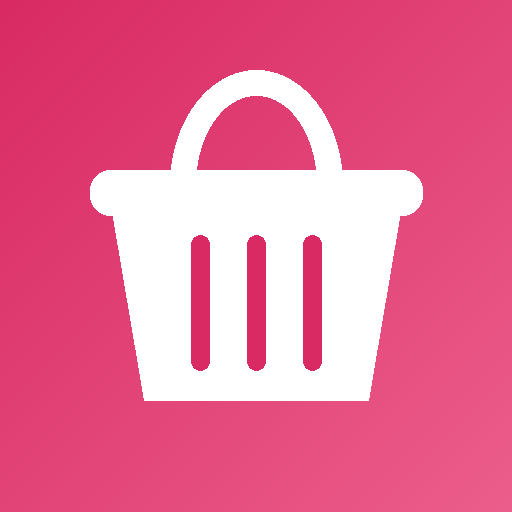
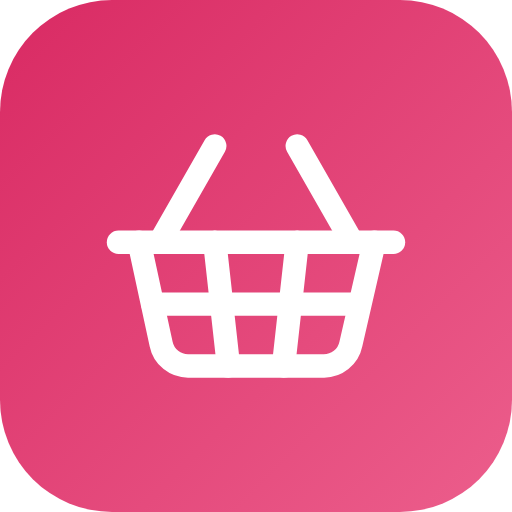
Add files via upload

diff --git a/app.js b/app.js
@@ -2,17 +2,39 @@
 /* ===== Mes courses — logique de l'application =====
    Toutes les données restent sur le téléphone (localStorage). Aucun serveur. */
 
-const VERSION = '1.0.0';
+const VERSION = '1.2.0';
 const KEY = 'mes-courses-v2';
 
 /* ---------- Constantes ---------- */
 const UNITS = [['', 'unité'], ['g', 'g'], ['kg', 'kg'], ['ml', 'ml'], ['cl', 'cl'], ['l', 'L'], ['bouquet', 'bouquet'], ['boîte', 'boîte'], ['sachet', 'sachet'], ['paquet', 'paquet'], ['pot', 'pot'], ['tranche', 'tranche']];
 const SLOTS = ['Petit-déjeuner', 'Brunch', 'Apéro', 'Midi', 'Goûter', 'Dîner'];
-const THEMES = { rose: ['#D92A63', '#EC5E8C', '#FBE6EF'], turquoise: ['#1A8274', '#3DB5A3', '#E0F3EF'], orange: ['#B85F17', '#E28A42', '#FDEFE0'], vert: ['#2F7D4F', '#4AA673', '#E3F0E8'] };
-const EMOJIS = [['pomme de terre', '🥔'], ['pommes de terre', '🥔'], ['patate', '🥔'], ['lait', '🥛'], ['creme', '🥛'], ['yaourt', '🥛'], ['pain', '🍞'], ['baguette', '🥖'], ['oeuf', '🥚'], ['œuf', '🥚'], ['banane', '🍌'], ['beurre', '🧈'], ['fromage', '🧀'], ['gruyere', '🧀'], ['mozzarella', '🧀'], ['parmesan', '🧀'], ['pomme', '🍎'], ['poire', '🍐'], ['carotte', '🥕'], ['courgette', '🥒'], ['concombre', '🥒'], ['tomate', '🍅'], ['salade', '🥬'], ['oignon', '🧅'], ['ail', '🧄'], ['poivron', '🫑'], ['champignon', '🍄'], ['aubergine', '🍆'], ['brocoli', '🥦'], ['mais', '🌽'], ['citron', '🍋'], ['orange', '🍊'], ['fraise', '🍓'], ['raisin', '🍇'], ['poulet', '🍗'], ['porc', '🥩'], ['boeuf', '🥩'], ['steak', '🥩'], ['viande', '🥩'], ['jambon', '🥓'], ['lardon', '🥓'], ['saucisse', '🌭'], ['saumon', '🐟'], ['poisson', '🐟'], ['thon', '🐟'], ['crevette', '🦐'], ['pate', '🍝'], ['raviolis', '🍝'], ['spaghetti', '🍝'], ['riz', '🍚'], ['cafe', '☕'], ['the ', '🍵'], ['eau', '💧'], ['vin', '🍷'], ['biere', '🍺'], ['jus', '🧃'], ['chocolat', '🍫'], ['biscuit', '🍪'], ['gateau', '🍰'], ['glace', '🍦'], ['huile', '🫒'], ['sel', '🧂'], ['sucre', '🍬'], ['farine', '🌾'], ['miel', '🍯'], ['lentille', '🫘'], ['haricot', '🫘'], ['pois', '🫛'], ['papier', '🧻'], ['lessive', '🧴'], ['savon', '🧼']];
+const THEMES = { rose: ['#D92A63', '#EC5E8C', '#FBE6EF'], vert: ['#2F7D4F', '#4AA673', '#E3F0E8'], orange: ['#B05400', '#FF7F00', '#FFF0DE'], turquoise: ['#1A8A7C', '#4CC4B0', '#DFF4F0'], taupe: ['#756559', '#A08F82', '#EEE8E2'] };
+
+
+/* ---------- Icônes ----------
+   Icônes « Lucide » (https://lucide.dev), licence ISC. Style plat : traits fins, sans relief. */
+const ICONS = {
+  'shopping-cart': '<circle cx="8" cy="21" r="1"/><circle cx="19" cy="21" r="1"/><path d="M2.05 2.05h2l2.66 12.42a2 2 0 0 0 2 1.58h9.78a2 2 0 0 0 1.95-1.57l1.65-7.43H5.12"/>',
+  'calendar-days': '<path d="M8 2v4"/><path d="M16 2v4"/><rect width="18" height="18" x="3" y="4" rx="2"/><path d="M3 10h18"/><path d="M8 14h.01"/><path d="M12 14h.01"/><path d="M16 14h.01"/><path d="M8 18h.01"/><path d="M12 18h.01"/><path d="M16 18h.01"/>',
+  'utensils': '<path d="M3 2v7c0 1.1.9 2 2 2h4a2 2 0 0 0 2-2V2"/><path d="M7 2v20"/><path d="M21 15V2a5 5 0 0 0-5 5v6c0 1.1.9 2 2 2h3Zm0 0v7"/>',
+  'settings': '<path d="M9.671 4.136a2.34 2.34 0 0 1 4.659 0 2.34 2.34 0 0 0 3.319 1.915 2.34 2.34 0 0 1 2.33 4.033 2.34 2.34 0 0 0 0 3.831 2.34 2.34 0 0 1-2.33 4.033 2.34 2.34 0 0 0-3.319 1.915 2.34 2.34 0 0 1-4.659 0 2.34 2.34 0 0 0-3.32-1.915 2.34 2.34 0 0 1-2.33-4.033 2.34 2.34 0 0 0 0-3.831A2.34 2.34 0 0 1 6.35 6.051a2.34 2.34 0 0 0 3.319-1.915"/><circle cx="12" cy="12" r="3"/>',
+  'shopping-basket': '<path d="m15 11-1 9"/><path d="m19 11-4-7"/><path d="M2 11h20"/><path d="m3.5 11 1.6 7.4a2 2 0 0 0 2 1.6h9.8a2 2 0 0 0 2-1.6l1.7-7.4"/><path d="M4.5 15.5h15"/><path d="m5 11 4-7"/><path d="m9 11 1 9"/>',
+  'check': '<path d="M20 6 9 17l-5-5"/>',
+  'x': '<path d="M18 6 6 18"/><path d="m6 6 12 12"/>',
+  'plus': '<path d="M5 12h14"/><path d="M12 5v14"/>',
+  'minus': '<path d="M5 12h14"/>',
+  'chevron-left': '<path d="m15 18-6-6 6-6"/>',
+  'chevron-right': '<path d="m9 18 6-6-6-6"/>',
+  'triangle-alert': '<path d="m21.73 18-8-14a2 2 0 0 0-3.48 0l-8 14A2 2 0 0 0 4 21h16a2 2 0 0 0 1.73-3"/><path d="M12 9v4"/><path d="M12 17h.01"/>'
+};
+function ic(name, size = 20, sw = 2) {
+  const e = document.createElement('span'); e.className = 'ic'; e.setAttribute('aria-hidden', 'true');
+  e.innerHTML = '<svg xmlns="http://www.w3.org/2000/svg" width="' + size + '" height="' + size + '" viewBox="0 0 24 24" fill="none" stroke="currentColor" stroke-width="' + sw + '" stroke-linecap="round" stroke-linejoin="round">' + ICONS[name] + '</svg>';
+  return e;
+}
 
 /* ---------- Données ---------- */
-const defaults = () => ({ v: 2, started: false, items: [], dishes: [], plan: {}, stats: {}, sessions: 0, lastBackup: '', prefs: { size: 1, theme: 'rose' } });
+const defaults = () => ({ v: 2, started: false, items: [], dishes: [], plan: {}, stats: {}, sessions: 0, lastBackup: '', prefs: { size: 1, theme: 'rose', custom: '#7B5EA7' } });
 
 function normalize(o) {
   const r = Object.assign(defaults(), o || {});
@@ -78,7 +100,6 @@ const parseQty = v => { const n = parseFloat(String(v).replace(',', '.')); retur
 const fmtNum = n => String(r2(n)).replace('.', ',');
 const unitLabel = u => (UNITS.find(x => x[0] === u) || [0, u])[1];
 const fmtQty = i => i.qty == null ? '' : fmtNum(i.qty) + (i.unit ? ' ' + unitLabel(i.unit) : '');
-const emojiOf = name => { const n = norm(name) + ' '; const f = EMOJIS.find(([k]) => n.includes(k)); return f ? f[1] : '🛒'; };
 function unitSelect(val) {
   const s = h('select', { 'aria-label': 'Unité' }, UNITS.map(([v, l]) => h('option', { value: v }, l)));
   s.value = val || ''; return s;
@@ -228,10 +249,20 @@ function restoreButton(text, cls, ask) {
 }
 
 /* ---------- Apparence ---------- */
+// Couleur au choix : on assombrit la couleur choisie pour que le texte blanc reste lisible.
+function customTheme(hex) {
+  const n = parseInt(hex.slice(1), 16), rgb = [(n >> 16) & 255, (n >> 8) & 255, n & 255];
+  const lum = c => { const f = v => { v /= 255; return v <= 0.03928 ? v / 12.92 : Math.pow((v + 0.055) / 1.055, 2.4); }; return 0.2126 * f(c[0]) + 0.7152 * f(c[1]) + 0.0722 * f(c[2]); };
+  const toHex = c => '#' + c.map(v => Math.round(v).toString(16).padStart(2, '0')).join('');
+  let k = 0.85;
+  while (k > 0.25 && 1.05 / (lum(rgb.map(v => v * k)) + 0.05) < 4.5) k -= 0.04;
+  return [toHex(rgb.map(v => v * k)), hex, toHex(rgb.map(v => v * 0.12 + 255 * 0.88))];
+}
 function applyPrefs() {
-  const t = THEMES[S.prefs.theme] || THEMES.rose, r = document.documentElement;
+  const p = S.prefs, r = document.documentElement;
+  const t = p.theme === 'perso' && /^#[0-9a-f]{6}$/i.test(p.custom || '') ? customTheme(p.custom) : (THEMES[p.theme] || THEMES.rose);
   r.style.setProperty('--g', t[0]); r.style.setProperty('--g1', t[1]); r.style.setProperty('--g2', t[2]);
-  r.style.fontSize = [15, 17, 19][S.prefs.size] + 'px';
+  r.style.fontSize = [15, 17, 19][p.size] + 'px';
   const m = $('meta[name=theme-color]'); if (m) m.content = t[0];
 }
 
@@ -240,18 +271,19 @@ const page = (title, ...kids) => h('div', {}, h('div', { class: 'hdr' }, h('h1',
 
 function render() {
   const app = $('#app'); app.replaceChildren();
+  document.body.dataset.view = (isEmpty() && !S.started) ? 'accueil' : view;
   document.querySelectorAll('.tabs,.foot').forEach(t => t.remove());
   if (isEmpty() && !S.started) { app.append(viewWelcome()); return; }
   app.append(namesList());
   app.append(view === 'courses' ? viewCourses() : view === 'semaine' ? viewWeek() : view === 'plats' ? viewDishes() : viewSettings());
-  document.body.append(h('nav', { class: 'tabs' }, [['courses', '🛒', 'Courses'], ['semaine', '📅', 'Semaine'], ['plats', '🍽', 'Plats'], ['reglages', '⚙', 'Réglages']]
-    .map(([k, i, l]) => h('button', { class: view === k ? 'on' : '', onclick: () => { view = k; render(); window.scrollTo(0, 0); } }, h('span', {}, i), l))));
+  document.body.append(h('nav', { class: 'tabs' }, [['courses', 'shopping-cart', 'Courses'], ['semaine', 'calendar-days', 'Semaine'], ['plats', 'utensils', 'Plats'], ['reglages', 'settings', 'Réglages']]
+    .map(([k, i, l]) => h('button', { class: view === k ? 'on' : '', onclick: () => { view = k; render(); window.scrollTo(0, 0); } }, ic(i, 24, view === k ? 2.3 : 1.8), l))));
   armAutoBackup();
 }
 
 function viewWelcome() {
   return h('div', { class: 'center pg' },
-    h('div', { class: 'big' }, '🛒'), h('h1', { style: 'margin:0 0 10px' }, 'Mes courses'),
+    h('div', { class: 'big' }, ic('shopping-basket', 64, 1.6)), h('h1', { style: 'margin:0 0 10px' }, 'Mes courses'),
     h('p', { class: 'hint' }, 'Votre liste de courses et vos menus de la semaine, directement sur le téléphone.'),
     h('button', { class: 'btn', onclick: () => { S.started = true; save(); render(); } }, 'Commencer'),
     restoreButton('Restaurer une sauvegarde', 'ghost', false),
@@ -277,16 +309,16 @@ function viewCourses() {
 
   const tog = i => { i.checked = !i.checked; i.checkedAt = i.checked ? stamp() : null; save(); render(); };
   const row = i => h('li', { class: 'row' + (i.checked ? ' done' : '') },
-    h('button', { class: 'tick', 'aria-label': i.checked ? 'Décocher ' + i.name : 'Cocher ' + i.name, onclick: () => tog(i) }, i.checked ? '✓' : ''),
+    h('button', { class: 'tick', 'aria-label': i.checked ? 'Décocher ' + i.name : 'Cocher ' + i.name, onclick: () => tog(i) }, i.checked ? ic('check', 18, 3) : null),
     h('div', { class: 'rbody', onclick: () => itemSheet(i) }, h('span', { class: 'nm' }, i.name), h('span', { class: 'q' }, fmtQty(i))));
 
   const ordered = S.sessions > 0 && todo.some(i => rankOf(i) != null);
   const body = [
     h('p', { class: 'cap' }, (ordered ? 'Classée dans votre ordre habituel · ' : '') + 'touchez un article pour le modifier'),
-    h('div', { class: 'addform' }, nameI, qtyI, unitS, h('button', { class: 'btn plus', onclick: add, 'aria-label': 'Ajouter' }, '+')),
-    habits.length ? h('div', { class: 'chipsrow' }, habits.map(st => h('button', { class: 'hab', onclick: () => { addToList(st.name, st.qty == null ? null : st.qty, st.unit); save(); render(); } }, emojiOf(st.name) + ' ' + st.name))) : null,
+    h('div', { class: 'addform' }, nameI, qtyI, unitS, h('button', { class: 'btn plus', onclick: add, 'aria-label': 'Ajouter' }, ic('plus', 24))),
+    habits.length ? h('div', { class: 'chipsrow' }, habits.map(st => h('button', { class: 'hab', onclick: () => { addToList(st.name, st.qty == null ? null : st.qty, st.unit); save(); render(); } }, ic('plus', 16, 2.4), st.name))) : null,
     todo.length ? h('div', {}, h('div', { class: 'sec' }, 'À acheter (' + todo.length + ')'), h('ul', { class: 'l' }, todo.map(row)))
-      : h('p', { class: 'hint', style: 'margin-top:14px' }, S.items.length ? 'Tout est dans le panier. 🎉' : 'Votre liste est vide. Ajoutez un produit ci-dessus, ou générez la liste depuis l’onglet Semaine.'),
+      : h('p', { class: 'hint', style: 'margin-top:14px' }, S.items.length ? 'Tout est dans le panier.' : 'Votre liste est vide. Ajoutez un produit ci-dessus, ou générez la liste depuis l’onglet Semaine.'),
     done.length ? h('div', {}, h('div', { class: 'sec' }, 'Dans le panier (' + done.length + ')'), h('ul', { class: 'l' }, done.map(row))) : null,
     h('div', { style: 'height:70px' })
   ];
@@ -309,9 +341,9 @@ function itemSheet(it) {
       const rest = r2(q - taken);
       box.replaceChildren(h('b', {}, 'J’en ai pris moins ?'),
         h('div', { class: 'stepper' },
-          h('button', { 'aria-label': 'Moins', onclick: () => { taken = Math.max(0, r2(taken - stepSize())); drawBox(); } }, '−'),
+          h('button', { 'aria-label': 'Moins', onclick: () => { taken = Math.max(0, r2(taken - stepSize())); drawBox(); } }, ic('minus', 20)),
           h('b', {}, fmtNum(taken)),
-          h('button', { 'aria-label': 'Plus', onclick: () => { taken = Math.min(q, r2(taken + stepSize())); drawBox(); } }, '+'),
+          h('button', { 'aria-label': 'Plus', onclick: () => { taken = Math.min(q, r2(taken + stepSize())); drawBox(); } }, ic('plus', 20)),
           h('span', { class: 'hint' }, 'sur ' + fmtNum(q))),
         h('span', { class: 'hint' }, taken > 0 && taken < q ? 'Les ' + fmtNum(taken) + ' pris sont cochés. Il en reste ' + fmtNum(rest) + ' dans la liste pour la prochaine fois.' : taken === 0 ? 'Rien de pris pour l’instant.' : 'Touchez − si vous en avez pris moins.'));
     };
@@ -339,8 +371,8 @@ function finishSheet() {
   const done = S.items.filter(i => i.checked), rest = S.items.length - done.length;
   openSheet((sh, close) => {
     sh.append(h('h2', {}, 'Terminer les courses ?'),
-      h('p', {}, '🧺 ', h('b', {}, done.length + (done.length > 1 ? ' articles cochés' : ' article coché')), ' ' + (done.length > 1 ? 'sont rangés.' : 'est rangé.')),
-      h('p', {}, '📝 ', h('b', {}, rest + (rest > 1 ? ' articles' : ' article')), ' ' + (rest > 1 ? 'restent' : 'reste') + ' dans la liste pour la prochaine fois.'),
+      h('p', {}, h('b', {}, done.length + (done.length > 1 ? ' articles cochés' : ' article coché')), ' ' + (done.length > 1 ? 'sont rangés.' : 'est rangé.')),
+      h('p', {}, h('b', {}, rest + (rest > 1 ? ' articles' : ' article')), ' ' + (rest > 1 ? 'restent' : 'reste') + ' dans la liste pour la prochaine fois.'),
       h('p', { class: 'hint' }, 'Votre ordre habituel de magasin est mis à jour avec cette sortie.'),
       h('button', { class: 'btn', onclick: () => { recordPurchases(done); S.items = S.items.filter(i => !i.checked); save(); close(); render(); toast('Courses terminées'); } }, 'Terminer les courses'),
       h('button', { class: 'btn link', onclick: close }, 'Pas encore'));
@@ -354,9 +386,9 @@ function viewWeek() {
   const label = 'Semaine du ' + weekStart.toLocaleDateString('fr-FR', { day: 'numeric', month: 'long' });
   const body = [
     h('div', { class: 'weeknav' },
-      h('button', { 'aria-label': 'Semaine précédente', onclick: () => { weekStart = addDays(weekStart, -7); render(); } }, '‹'),
+      h('button', { 'aria-label': 'Semaine précédente', onclick: () => { weekStart = addDays(weekStart, -7); render(); } }, ic('chevron-left', 22)),
       h('div', { class: 'mid' }, label),
-      h('button', { 'aria-label': 'Semaine suivante', onclick: () => { weekStart = addDays(weekStart, 7); render(); } }, '›')),
+      h('button', { 'aria-label': 'Semaine suivante', onclick: () => { weekStart = addDays(weekStart, 7); render(); } }, ic('chevron-right', 22))),
     +weekStart !== +monday(new Date()) ? h('button', { class: 'btn link', style: 'margin:0 0 6px', onclick: () => { weekStart = monday(new Date()); render(); } }, 'Revenir à cette semaine') : null,
     h('button', { class: 'btn' + (n ? '' : ' ghost'), style: 'margin:0 0 12px', onclick: genSheet }, n ? 'Générer la liste · ' + n + (n > 1 ? ' nouveaux repas' : ' nouveau repas') : 'Générer la liste de courses'),
     days.map(d => {
@@ -367,7 +399,7 @@ function viewWeek() {
           h('button', { class: 'x', 'aria-label': 'Retirer ce repas', onclick: () => {
             const idx = S.plan[k].indexOf(m); S.plan[k].splice(idx, 1); if (!S.plan[k].length) delete S.plan[k]; save(); render();
             toast('Repas retiré', 'Annuler', () => { (S.plan[k] = S.plan[k] || []).push(m); save(); render(); });
-          } }, '✕'))));
+          } }, ic('x', 18)))));
     }), h('div', { style: 'height:10px' })];
   return page('Menus de la semaine', body);
 }
@@ -398,7 +430,7 @@ function mealSheet(dayIso, dayDate, meal) {
         const lbl = partLabel(p) + '';
         return h('span', { class: 'sp', onclick: () => { if (p.t === 'ing') { editIdx = i; drawQty(); } } },
           lbl, p.t === 'ing' && p.qty != null ? h('i', {}, '· ' + fmtQty(p)) : null,
-          h('b', { 'aria-label': 'Retirer', onclick: e => { e.stopPropagation(); parts.splice(i, 1); editIdx = null; drawQty(); drawPills(); refreshBtn(); } }, '✕'));
+          h('b', { 'aria-label': 'Retirer', onclick: e => { e.stopPropagation(); parts.splice(i, 1); editIdx = null; drawQty(); drawPills(); refreshBtn(); } }, ic('x', 14, 2.4)));
       }));
       refreshBtn();
     };
@@ -410,7 +442,7 @@ function mealSheet(dayIso, dayDate, meal) {
       if (p.t === 'ing' && parts.some(x => x.t === 'ing' && stem(x.name) === stem(p.name))) { toast('Cet ingrédient est déjà dans le repas'); return; }
       parts.push(Object.assign({ inList: false }, p)); q.value = ''; drawResults(); drawPills();
     };
-    const opt = (kind, label, onclick) => h('div', { class: 'opt', onclick }, h('span', { class: 'k ' + kind[0] }, kind[1]), label, h('span', { class: 'pl' }, '+'));
+    const opt = (kind, label, onclick) => h('div', { class: 'opt', onclick }, h('span', { class: 'k ' + kind[0] }, kind[1]), label, h('span', { class: 'pl' }, ic('plus', 20, 2.4)));
     const drawResults = () => {
       const f = norm(q.value), raw = q.value.trim();
       const ds = S.dishes.filter(d => !f || norm(d.name).includes(f)).sort(byName).slice(0, f ? 20 : 4);
@@ -468,7 +500,7 @@ function genSheet() {
       const rows = arr.map(e => {
         const tick = h('button', { class: 'tick', 'aria-label': e.name });
         const row = h('div', { class: 'gen' }, tick, h('span', { class: 'nm' }, e.name), h('span', { class: 'q' }, fmtQty(e)));
-        const paint = () => { tick.className = 'tick' + (e.on ? ' on' : ''); tick.textContent = e.on ? '✓' : ''; row.classList.toggle('off', !e.on); };
+        const paint = () => { tick.className = 'tick' + (e.on ? ' on' : ''); tick.replaceChildren(...(e.on ? [ic('check', 18, 3)] : [])); row.classList.toggle('off', !e.on); };
         row.addEventListener('click', () => { e.on = !e.on; paint(); upd(); }); paint(); return row;
       });
       btn.addEventListener('click', () => {
@@ -513,7 +545,7 @@ function dishSheet(dish, onSaved) {
     let dup = null;
     const checkDup = () => {
       dup = similarDish(nameI.value, d.id);
-      warn.replaceChildren(...(dup ? [h('div', { class: 'warn' }, '⚠ Un plat ressemble à celui-ci : ', h('b', {}, dup.name), h('br'),
+      warn.replaceChildren(...(dup ? [h('div', { class: 'warn' }, ic('triangle-alert', 18), ' Un plat ressemble à celui-ci : ', h('b', {}, dup.name), h('br'),
         h('button', { onclick: () => { const t = dup; close(); dishSheet(t); } }, 'Ouvrir ce plat →'))] : []));
       saveBtn.textContent = dup ? 'Enregistrer quand même' : 'Enregistrer';
     };
@@ -523,7 +555,7 @@ function dishSheet(dish, onSaved) {
       const n = h('input', { type: 'text', value: g.name, placeholder: 'Ingrédient', list: 'names', autocomplete: 'off', oninput: e => { g.name = e.target.value; } });
       const qi = h('input', { type: 'text', inputmode: 'decimal', value: g.qty == null ? '' : fmtNum(g.qty), placeholder: 'Qté', 'aria-label': 'Quantité', oninput: e => { g.qty = parseQty(e.target.value); } });
       const u = unitSelect(g.unit); u.addEventListener('change', () => { g.unit = u.value; });
-      return h('div', { class: 'ing' }, n, qi, u, h('button', { class: 'x', 'aria-label': 'Retirer', onclick: () => { d.ingredients = d.ingredients.filter(x => x !== g); if (!d.ingredients.length) d.ingredients.push({ name: '', qty: null, unit: '' }); draw(); } }, '✕'));
+      return h('div', { class: 'ing' }, n, qi, u, h('button', { class: 'x', 'aria-label': 'Retirer', onclick: () => { d.ingredients = d.ingredients.filter(x => x !== g); if (!d.ingredients.length) d.ingredients.push({ name: '', qty: null, unit: '' }); draw(); } }, ic('x', 18)));
     }));
     draw();
     saveBtn.addEventListener('click', () => {
@@ -546,6 +578,13 @@ function dishSheet(dish, onSaved) {
 }
 
 /* ----- Réglages ----- */
+function customDot() {
+  const on = S.prefs.theme === 'perso';
+  const inp = h('input', { type: 'color', value: S.prefs.custom || '#7B5EA7', 'aria-label': 'Choisir une couleur',
+    oninput: e => { S.prefs.theme = 'perso'; S.prefs.custom = e.target.value; applyPrefs(); },
+    onchange: e => { S.prefs.theme = 'perso'; S.prefs.custom = e.target.value; save(); applyPrefs(); render(); } });
+  return h('label', { class: 'dot-custom' + (on ? ' on' : ''), style: on ? 'background:' + S.prefs.custom : '' }, inp);
+}
 function viewSettings() {
   const last = S.lastBackup ? cap1(new Date(S.lastBackup + 'T12:00:00').toLocaleDateString('fr-FR', { weekday: 'long', day: 'numeric', month: 'long' })) : 'aucune';
   const ranked = Object.values(S.stats).filter(st => st.pos != null).length;
@@ -564,7 +603,8 @@ function viewSettings() {
       h('div', { class: 'hint' }, 'Taille du texte'),
       h('div', { class: 'sizes' }, [14, 17, 21].map((px, i) => h('button', { class: S.prefs.size === i ? 'on' : '', style: 'font-size:' + px + 'px', 'aria-label': 'Taille ' + (i + 1), onclick: () => { S.prefs.size = i; save(); applyPrefs(); render(); } }, 'A'))),
       h('div', { class: 'hint' }, 'Couleur'),
-      h('div', { class: 'dots' }, Object.keys(THEMES).map(k => h('button', { class: S.prefs.theme === k ? 'on' : '', style: 'background:' + THEMES[k][0], 'aria-label': k, onclick: () => { S.prefs.theme = k; save(); applyPrefs(); render(); } })))),
+      h('div', { class: 'dots' }, Object.keys(THEMES).map(k => h('button', { class: S.prefs.theme === k ? 'on' : '', style: 'background:linear-gradient(135deg,' + THEMES[k][0] + ',' + THEMES[k][1] + ')', 'aria-label': k, onclick: () => { S.prefs.theme = k; save(); applyPrefs(); render(); } })), customDot()),
+      h('p', { class: 'hint', style: 'margin:8px 0 0' }, 'La dernière pastille ouvre un sélecteur : choisissez la couleur de votre choix.')),
     h('div', { class: 'card' }, h('h2', {}, 'Ordre du magasin'),
       h('p', { class: 'hint' }, S.sessions ? 'Appris sur ' + S.sessions + ' sortie' + (S.sessions > 1 ? 's' : '') + ' · ' + ranked + ' produit' + (ranked > 1 ? 's' : '') + ' classé' + (ranked > 1 ? 's' : '') : 'Pas encore appris : cochez vos articles au fil du magasin, puis touchez « Terminer les courses ».'),
       S.sessions ? reset : null),

diff --git a/style.css b/style.css
@@ -35,17 +35,17 @@ label.btn input{display:none}
 
 /* Ajout rapide + habituels */
 .addform{display:grid;grid-template-columns:1fr 62px 90px 48px;gap:6px}
-.addform .plus{margin:0;padding:0;font-size:1.5rem}
+.addform .plus{margin:0;padding:0}
 .chipsrow{display:flex;gap:6px;overflow-x:auto;margin:10px 0 0;padding-bottom:2px;scrollbar-width:none}
 .chipsrow::-webkit-scrollbar{display:none}
-.hab{flex:none;display:flex;align-items:center;gap:6px;border:0;background:var(--cream);border-radius:20px;padding:8px 13px 8px 10px;font-size:.92rem;cursor:pointer}
+.hab{flex:none;display:flex;align-items:center;gap:6px;color:var(--g);border:0;background:var(--cream);border-radius:20px;padding:8px 13px 8px 10px;font-size:.92rem;cursor:pointer}
 
 /* Listes */
 .sec{margin:16px 4px 6px;color:var(--m);font-size:.75rem;font-weight:700;text-transform:uppercase;letter-spacing:.05em}
 ul.l{list-style:none;margin:0;padding:0;border:1px solid var(--l);border-radius:14px;overflow:hidden;box-shadow:0 2px 8px rgba(90,50,60,.07)}
 .row{display:flex;align-items:center;gap:10px;min-height:54px;padding:3px 12px 3px 8px;background:var(--c);border-bottom:1px solid var(--l)}
 .row:last-child{border-bottom:0}
-.tick{flex:none;width:32px;height:32px;border-radius:50%;border:2px solid var(--g);background:transparent;color:#fff;font-size:1.05rem;line-height:1;cursor:pointer;padding:0}
+.tick{flex:none;width:32px;height:32px;border-radius:50%;border:2px solid var(--g);background:transparent;color:#fff;cursor:pointer;padding:0;display:flex;align-items:center;justify-content:center}
 .tick.on,.row.done .tick{background:linear-gradient(135deg,var(--g),var(--g1))}
 .rbody{flex:1;min-width:0;display:flex;align-items:center;gap:8px;align-self:stretch;cursor:pointer}
 .nm{flex:1;min-width:0;overflow-wrap:anywhere;padding:8px 0}
@@ -58,7 +58,7 @@ ul.l{list-style:none;margin:0;padding:0;border:1px solid var(--l);border-radius:
 /* Semaine */
 .weeknav{display:flex;align-items:center;gap:8px;margin-bottom:10px}
 .weeknav .mid{flex:1;text-align:center;font-weight:600}
-.weeknav button{width:46px;height:46px;border:1px solid var(--l);border-radius:12px;background:var(--c);font-size:1.3rem;cursor:pointer}
+.weeknav button{width:46px;height:46px;border:1px solid var(--l);border-radius:12px;background:var(--c);cursor:pointer;display:flex;align-items:center;justify-content:center;padding:0}
 .day{background:var(--c);border:1px solid var(--l);border-radius:14px;padding:9px 12px;margin-bottom:10px;box-shadow:0 2px 8px rgba(90,50,60,.07)}
 .day.today{border-left:5px solid var(--teal)}
 .dayh{display:flex;align-items:center;justify-content:space-between;font-weight:600}
@@ -66,12 +66,13 @@ ul.l{list-style:none;margin:0;padding:0;border:1px solid var(--l);border-radius:
 .meal{display:flex;align-items:center;gap:8px;padding:6px 0;border-top:1px solid var(--l);margin-top:8px}
 .meal .s{flex:none;min-width:84px;color:var(--g);font-size:.8rem;font-weight:700}
 .meal .d{flex:1;overflow-wrap:anywhere;cursor:pointer;padding:6px 0}
-.x{flex:none;width:40px;height:40px;border:0;background:transparent;color:var(--m);font-size:1.1rem;cursor:pointer}
+.x{flex:none;width:40px;height:40px;border:0;background:transparent;color:var(--m);cursor:pointer;display:flex;align-items:center;justify-content:center;padding:0}
 
 /* Plats */
 .pick{display:flex;flex-direction:column;align-items:flex-start;width:100%;min-height:54px;padding:8px 12px;margin-bottom:8px;border:1.5px solid var(--l);border-radius:12px;background:var(--c);text-align:left;cursor:pointer;box-shadow:0 2px 8px rgba(90,50,60,.05)}
 .pick small{color:var(--m)}
 .warn{background:var(--o2);border:1.5px solid #f0c98f;color:#7a4a0a;border-radius:12px;padding:10px 12px;font-size:.88rem;margin:8px 0}
+.warn .ic{vertical-align:-3px}
 .warn button{border:0;background:none;padding:6px 0 0;font-weight:700;color:var(--g);cursor:pointer}
 .ing{display:grid;grid-template-columns:1fr 62px 92px 36px;gap:6px;margin-bottom:8px;align-items:center}
 .ing .x{width:36px;height:46px}
@@ -79,7 +80,7 @@ ul.l{list-style:none;margin:0;padding:0;border:1px solid var(--l);border-radius:
 /* Navigation */
 .tabs{position:fixed;left:0;right:0;bottom:0;z-index:5;display:flex;background:var(--c);border-top:1px solid var(--l);padding-bottom:var(--sa);box-shadow:0 -2px 10px rgba(0,0,0,.05)}
 .tabs button{flex:1;min-height:62px;border:0;background:transparent;color:var(--m);font-size:.72rem;display:flex;flex-direction:column;align-items:center;justify-content:center;gap:2px;cursor:pointer}
-.tabs button span{font-size:1.4rem}
+.tabs button .ic{display:flex}
 .tabs button.on{color:var(--g);font-weight:700}
 
 /* Fenêtres */
@@ -93,14 +94,14 @@ ul.l{list-style:none;margin:0;padding:0;border:1px solid var(--l);border-radius:
 .chip.on{background:linear-gradient(135deg,var(--g),var(--g1));border-color:var(--g);color:#fff}
 .sp{display:inline-flex;align-items:center;gap:6px;background:linear-gradient(135deg,var(--g2),#fff);color:var(--g);border:1px solid var(--gb);border-radius:18px;padding:6px 6px 6px 12px;font-weight:600;margin:0 6px 6px 0;cursor:pointer}
 .sp i{font-style:normal;font-weight:400;color:var(--m)}
-.sp b{width:26px;height:26px;display:inline-flex;align-items:center;justify-content:center;font-weight:700}
+.sp b{width:26px;height:26px;display:inline-flex;align-items:center;justify-content:center;font-weight:700;color:var(--m)}
 .opt{display:flex;align-items:center;gap:10px;min-height:46px;border-bottom:1px solid var(--l);cursor:pointer}
 .opt .k{flex:none;min-width:78px;text-align:center;font-size:.7rem;font-weight:700;border-radius:8px;padding:3px 7px}
 .k.p{background:var(--cream);color:#7a6a4f}.k.i{background:#e0f3ef;color:#23857a}.k.n{background:#eee;color:#666}
-.opt .pl{margin-left:auto;color:var(--g);font-weight:700;font-size:1.4rem}
+.opt .pl{margin-left:auto;color:var(--g);display:flex}
 .list-sc{max-height:30vh;overflow:auto;margin-top:4px}
 .stepper{display:flex;align-items:center;gap:14px;margin:8px 0 6px}
-.stepper button{width:44px;height:44px;border:0;border-radius:12px;background:#fff;font-size:1.4rem;cursor:pointer}
+.stepper button{width:44px;height:44px;border:0;border-radius:12px;background:#fff;cursor:pointer;display:flex;align-items:center;justify-content:center;padding:0}
 .stepper b{font-size:1.4rem;min-width:40px;text-align:center}
 .qrow{display:grid;grid-template-columns:76px 1fr 64px;gap:6px;align-items:center;margin:6px 0 10px}
 
@@ -116,4 +117,21 @@ ul.l{list-style:none;margin:0;padding:0;border:1px solid var(--l);border-radius:
 .toast{position:fixed;top:calc(12px + var(--st));left:50%;transform:translateX(-50%);max-width:92%;background:#222;color:#fff;padding:12px 18px;border-radius:24px;z-index:20;font-size:.9rem;text-align:center;display:flex;gap:12px;align-items:center}
 .toast button{border:0;background:none;color:#ffb3cb;font-weight:700;cursor:pointer;padding:0}
 .center{text-align:center;padding-top:12vh;max-width:420px;margin:0 auto}
-.big{font-size:3.4rem}
+.big{color:var(--g);display:flex;justify-content:center;margin-bottom:6px}
+
+/* Icônes */
+.ic{display:inline-flex;align-items:center;justify-content:center;flex:none;line-height:0}
+
+/* Semaine : fond taupe clair, jours en blanc cerclés de taupe foncé */
+body[data-view="semaine"]{background:#EFE8E0}
+body[data-view="semaine"] .day{background:#fff;border:1.5px solid #BFAF9F;box-shadow:0 1px 3px rgba(90,70,50,.10)}
+body[data-view="semaine"] .day.today{border-left:6px solid var(--g)}
+body[data-view="semaine"] .weeknav button{border-color:#BFAF9F}
+body[data-view="semaine"] .btn.ghost{background:#fff}
+.dayh button{background:var(--g2)}
+
+/* Couleur au choix */
+.dot-custom{position:relative;display:block;width:38px;height:38px;border-radius:50%;cursor:pointer;background:conic-gradient(#e63946,#f4a261,#e9c46a,#2a9d8f,#4361ee,#9b5de5,#e63946)}
+.dot-custom.on{outline:3px solid var(--t);outline-offset:2px}
+.dot-custom input{position:absolute;inset:0;width:100%;height:100%;min-height:0;opacity:0;cursor:pointer;padding:0;border:0}
+.dots{flex-wrap:wrap}

diff --git a/sw.js b/sw.js
@@ -1,8 +1,8 @@
 // Service worker : permet d'ouvrir l'application sans réseau.
 // IMPORTANT : à chaque mise à jour des fichiers, changez le numéro ci-dessous (v1 -> v2 -> v3…)
 // pour que les téléphones récupèrent la nouvelle version.
-const CACHE = 'mes-courses-v1';
-const FILES = ['./', 'index.html', 'style.css', 'app.js', 'manifest.json', 'icon-192.png', 'icon-512.png', 'icon-maskable-512.png'];
+const CACHE = 'mes-courses-v3';
+const FILES = ['./', 'index.html', 'style.css', 'app.js', 'manifest.json', 'favicon.svg', 'icon-192.png', 'icon-512.png', 'icon-maskable-512.png'];
 
 self.addEventListener('install', e => {
   e.waitUntil(caches.open(CACHE).then(c => c.addAll(FILES)).then(() => self.skipWaiting()));

diff --git a/index.html b/index.html
@@ -7,7 +7,8 @@
 <meta name="mobile-web-app-capable" content="yes">
 <meta name="apple-mobile-web-app-capable" content="yes">
 <link rel="manifest" href="manifest.json">
-<link rel="icon" href="icon-192.png">
+<link rel="icon" type="image/svg+xml" href="favicon.svg">
+<link rel="icon" type="image/png" href="icon-192.png">
 <link rel="apple-touch-icon" href="icon-192.png">
 <link rel="stylesheet" href="style.css">
 <title>Mes courses</title>

diff --git a/LISEZMOI.md b/LISEZMOI.md
@@ -13,7 +13,7 @@ qu'à « livrer » l'application ; ils ne contiennent aucune donnée personnelle
 | `app.js` | Tout le fonctionnement de l'application |
 | `manifest.json` | Nom et icône de l'application sur l'écran d'accueil |
 | `sw.js` | Permet d'ouvrir l'application sans réseau |
-| `icon-192.png`, `icon-512.png`, `icon-maskable-512.png` | Icônes |
+| `favicon.svg`, `icon-192.png`, `icon-512.png`, `icon-maskable-512.png` | Icône de l'application |
 
 ## 1. Mettre les fichiers sur GitHub (une seule fois)
 
@@ -57,3 +57,13 @@ Pour rouvrir l'application après un nettoyage, le téléphone doit donc avoir d
 ## 6. Essai rapide sur l'ordinateur (facultatif)
 
 Dans le dossier de l'application, ouvrez un terminal et lancez `python3 -m http.server 8000`, puis ouvrez `http://localhost:8000`.
+
+## Crédits
+
+Les icônes sont issues de **Lucide** (https://lucide.dev), sous licence ISC.
+
+## Historique
+
+- **1.2.0** : icône de l'application et favicon (panier Lucide) ; couleurs rose, vert, orange (FF7F00), turquoise, taupe, plus une couleur au choix.
+- **1.1.0** : icônes plates (Lucide) à la place des émojis ; couleurs rose, vert, turquoise et taupe ; fond de la semaine en taupe clair, jours en blanc avec bordure taupe ; repère du jour dans la couleur choisie.
+- **1.0.0** : première version.
